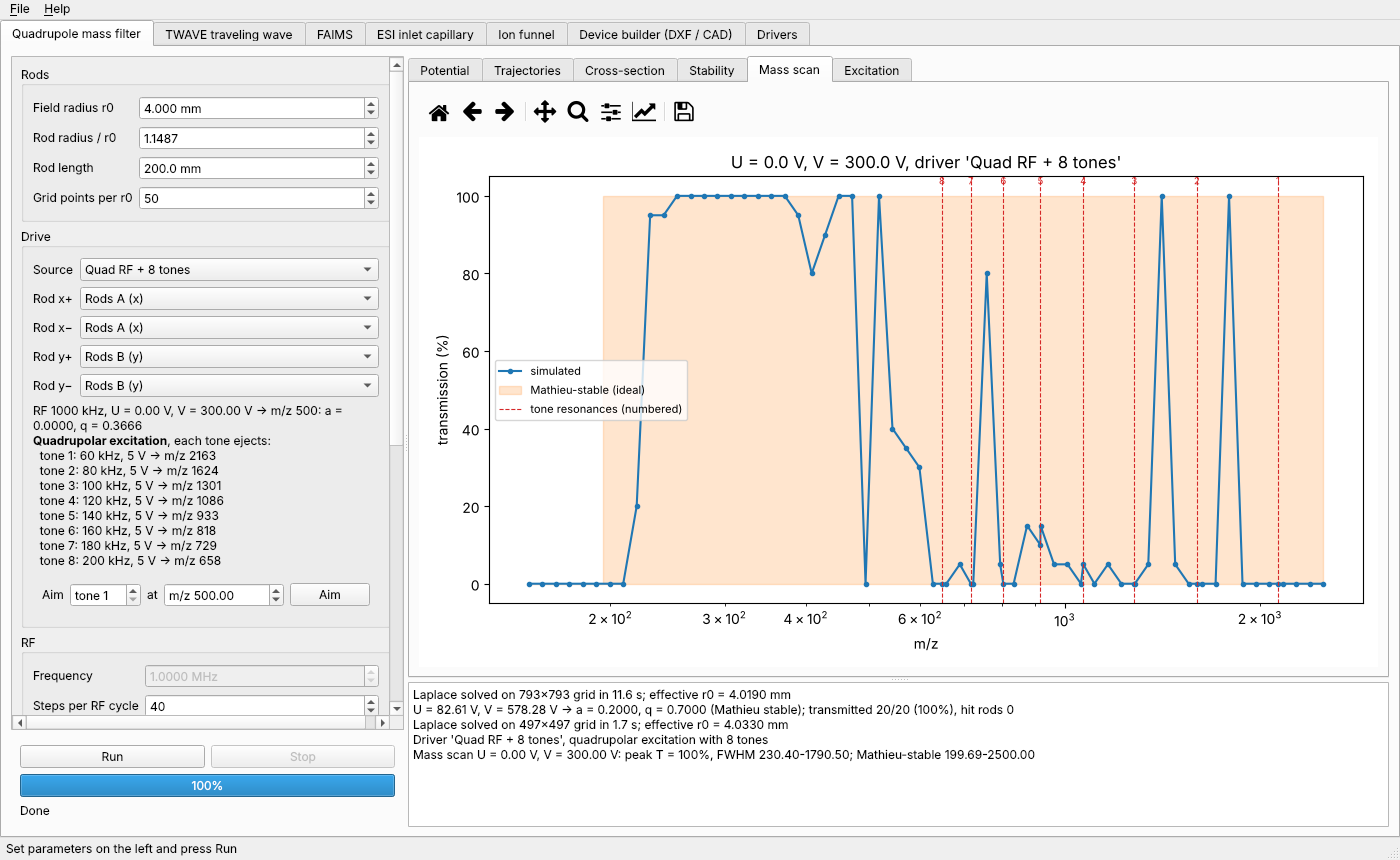
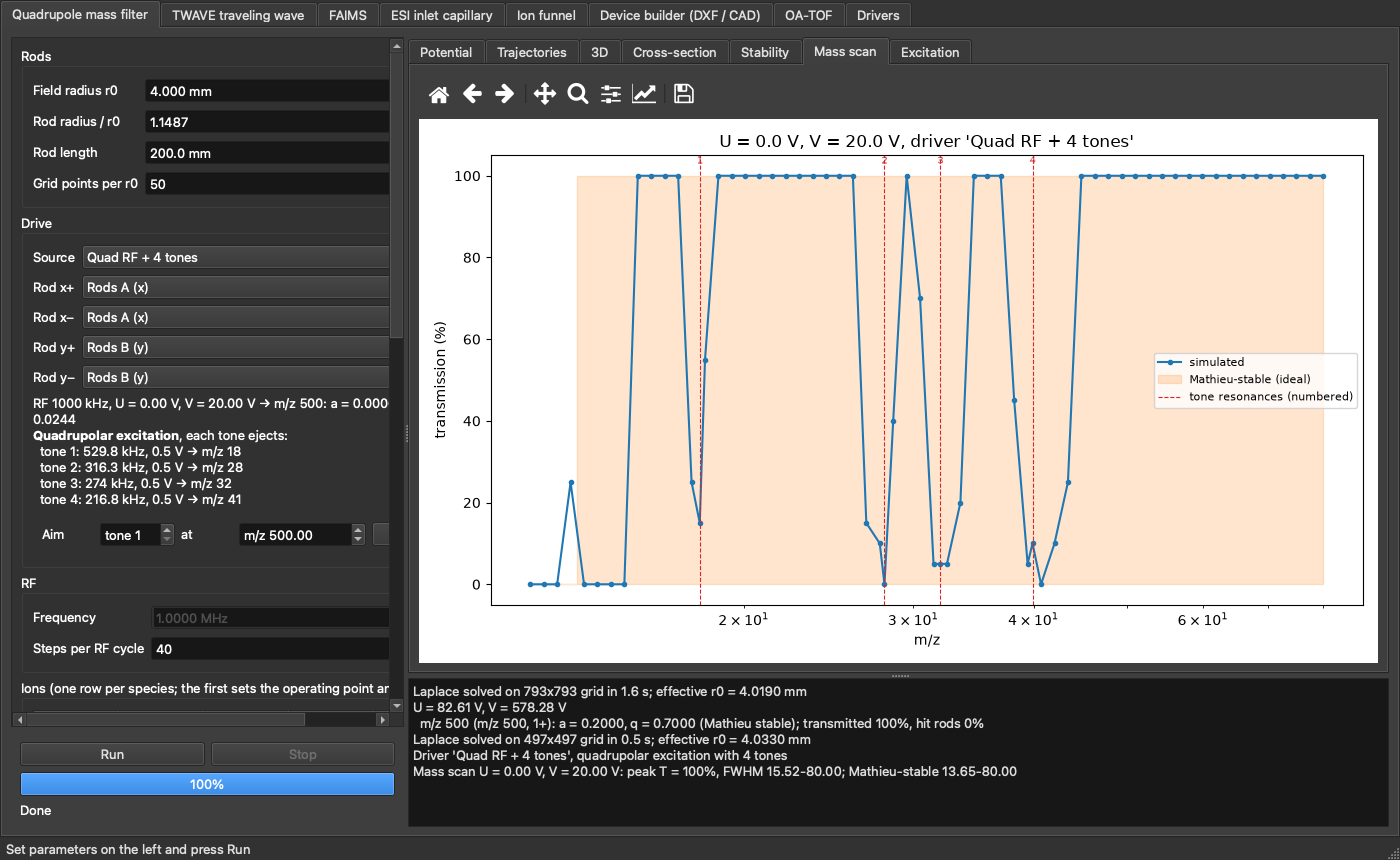
Aim the example quad tone driver at light gas ions with 4 tones
The quad excitation template now carries 4 tones instead of 8, aimed at
H2O+, N2+, O2+ and Ar+ (m/z 18, 28, 32, 40). The RF drops to 20 V at
1 MHz so those masses are stable on 4 mm rods; quadrupolar tones at
0.5 V, dipolar at 0.2 V.

- Example drivers: quad_rf_8_tones.iondrv renamed to quad_rf_4_tones.iondrv,
  dipolar example updated to match.
- Screenshot demo: excitation scan over m/z 12-80 with a 1 eV beam;
  regenerated quad_excitation_scan and quad_excitation_tones.
- Smoke test: tone ejection checked at m/z 28 on the driver's own RF.
- README wording updated.

diff --git a/ionsim/drivers.py b/ionsim/drivers.py
@@ -20,7 +20,7 @@ waveform kept with the driver (waveforms.Trace): a SPICE simulation of the real 
 scope capture of the real board, interpolated between samples and repeated with its period.
 
 Because fields add linearly, a device is solved once per distinct component (DC, cos and
-sin of each frequency, each TWAVE phase), not once per output, so 8 tones on a quad or
+sin of each frequency, each TWAVE phase), not once per output, so tones on a quad or
 16 outputs on a TWAVE/RF combiner stay cheap (see components()).
 """
 import json
@@ -274,19 +274,23 @@ def twave_rf_combiner(name="TWAVE/RF combiner"):
                   notes="TWAVE phases 1-8 superimposed on RF+ and RF- (16 outputs).")
 
 
-def quad_excitation(name="Quad RF + 8 tones", dipolar=False):
-    """Quadrupole RF/DC with 8 excitation tones superimposed. Quadrupolar: tones follow the
-    RF (+ on rods A, - on rods B). Dipolar: tones across the x rod pair only."""
-    amp = 1.0 if dipolar else 5.0       # quadrupolar (parametric) excitation needs ~1-2% of the RF
-    tones = [Tone(freq=f, amp=amp) for f in (60e3, 80e3, 100e3, 120e3, 140e3, 160e3, 180e3, 200e3)]
+def quad_excitation(name="Quad RF + 4 tones", dipolar=False):
+    """Quadrupole RF/DC with 4 excitation tones superimposed, aimed at light gas ions (H2O+, N2+,
+    O2+, Ar+ at m/z 18, 28, 32, 40) with 20 V RF at 1 MHz on 4 mm rods. Quadrupolar: tones follow
+    the RF (+ on rods A, - on rods B) at twice the secular frequency. Dipolar: tones across the
+    x rod pair only, at the secular frequency."""
+    freqs = (529.8e3, 316.3e3, 274.0e3, 216.8e3)
     if dipolar:
-        outs = [Output("Rod x+", rf=300.0, tone_sign=1.0), Output("Rod x-", rf=300.0, tone_sign=-1.0),
-                Output("Rods y", rf=300.0, rf_phase=180.0)]
+        tones = [Tone(freq=f / 2, amp=0.2) for f in freqs]
+        outs = [Output("Rod x+", rf=20.0, tone_sign=1.0), Output("Rod x-", rf=20.0, tone_sign=-1.0),
+                Output("Rods y", rf=20.0, rf_phase=180.0)]
         note = "Dipolar excitation: tones on the x rods in antiphase, RF on all rods."
     else:
-        outs = [Output("Rods A (x)", rf=300.0, tone_sign=1.0),
-                Output("Rods B (y)", rf=300.0, rf_phase=180.0, tone_sign=-1.0)]
+        tones = [Tone(freq=f, amp=0.5) for f in freqs]       # quadrupolar (parametric) excitation needs ~2-3% of the RF
+        outs = [Output("Rods A (x)", rf=20.0, tone_sign=1.0),
+                Output("Rods B (y)", rf=20.0, rf_phase=180.0, tone_sign=-1.0)]
         note = "Tones superimposed on the RF: + with RF+ on rods A, - with RF- on rods B."
+    note += " Tones aimed at m/z 18, 28, 32, 40 (H2O+, N2+, O2+, Ar+)."
     return Driver(name, rf_freq=1.0e6, outputs=outs, tones=tones, notes=note)
 
 
@@ -308,8 +312,8 @@ def tof_pulser(name="OA-TOF pusher-puller"):
 
 TEMPLATES = {
     "TWAVE/RF combiner (16 outputs)": twave_rf_combiner,
-    "Quad RF + 8 tones (on the RF)": quad_excitation,
-    "Quad RF + 8 tones (dipolar, x rods)": lambda name="Quad dipolar": quad_excitation(name, dipolar=True),
+    "Quad RF + 4 tones (on the RF)": quad_excitation,
+    "Quad RF + 4 tones (dipolar, x rods)": lambda name="Quad dipolar": quad_excitation(name, dipolar=True),
     "RF pair (RF+ / RF-)": rf_pair,
     "OA-TOF pusher and puller": tof_pulser,
     "DC supply (8 channels)": dc_supply,

diff --git a/tests/smoke_test.py b/tests/smoke_test.py
@@ -121,13 +121,13 @@ check("driver wiring", not missing and sum(p.startswith("tw@") for p in parts) =
 from ionsim import quadrupole_rods, solve_basis, GridField2D, make_beam, Simulation
 g = quadrupole_rods(4e-3, dx=4e-3 / 40, split=True); basis = solve_basis(g)
 qd = quad_excitation()
-fx, _ = mathieu.secular_freqs(0, 300, 500, 4.03e-3, 1e6)
+fx, _ = mathieu.secular_freqs(0, qd.output("Rods A (x)").rf, 28, 4.03e-3, 1e6)
 T = []
-for amp in (0.0, 15.0):
+for amp in (0.0, 1.0):
     qd.tones = [Tone(2 * fx, amp)] if amp else []
     volts = {r: (lambda tt, o=o: float(qd.waveform(o, tt))) for r, o in
              (("x+", "Rods A (x)"), ("x-", "Rods A (x)"), ("y+", "Rods B (y)"), ("y-", "Rods B (y)"))}
-    ions = make_beam(20, 500, 1, 5.0, 0.3e-3, 1.0, birth_window=1e-6, rng=np.random.default_rng(0))
+    ions = make_beam(20, 28, 1, 1.0, 0.3e-3, 1.0, birth_window=1e-6, rng=np.random.default_rng(0))
     T.append(Simulation([GridField2D(g, basis, volts)], z_end=0.2).run(ions, 1 / 30e6, 3e-4).transmission)
 check("quad tone ejects its m/z", T[0] > 0.9 and T[1] < 0.2, f"no tone {T[0]:.0%}, tone at 2 f_sec {T[1]:.0%}")
 

diff --git a/docs/make_screenshots.py b/docs/make_screenshots.py
@@ -42,16 +42,16 @@ def go():
     shot(w.quad, "Trajectories", "quad_trajectories")
     shot(w.quad, "Stability", "quad_stability")
     shot(w.quad, "3D", "quad_3d")
-    # quadrupole driven by the 8-tone driver: excitation scan
+    # quadrupole driven by the 4-tone driver: excitation scan over light gas ions (1 eV beam)
     q = w.quad
-    q.geom.set("div", 50)
-    q.drive.setCurrentText("Quad RF + 8 tones"); settle()
+    q.geom.set("div", 50); q.ion.set("energy", 1.0)
+    q.drive.setCurrentText("Quad RF + 4 tones"); settle()
     q.mode.setCurrentIndex(1)
-    q.dscan.set("m1", 150); q.dscan.set("m2", 2500); q.dscan.set("npts", 60); q.dscan.set("per", 20)
+    q.dscan.set("m1", 12); q.dscan.set("m2", 80); q.dscan.set("npts", 60); q.dscan.set("per", 20)
     run(q)
     shot(q, "Mass scan", "quad_excitation_scan")
     shot(q, "Excitation", "quad_excitation_tones")
-    q.drive.setCurrentIndex(0); q.geom.set("div", 80)
+    q.drive.setCurrentIndex(0); q.geom.set("div", 80); q.ion.set("energy", 5.0)
     # Drivers tab: the TWAVE/RF combiner
     dr = w.drivers
     w.tabs.setCurrentWidget(dr)

diff --git a/README.md b/README.md
@@ -113,9 +113,9 @@ Rod geometry, RF frequency, ions, beam and operating point (a, q or U, V, kept i
 |---|
 | ![Collision cell](docs/screenshots/quad_collision_cell.png) |
 
-Under **Drive**, pick a driver from the Drivers tab instead of the built-in RF/DC, and choose which output goes on each rod (x+, x−, y+, y−). The tab then works out the excitation type from the tone signs on the rods: tones added with the RF (+ on one pair, − on the other) are quadrupolar and eject at twice the secular frequency; tones across one rod pair are dipolar and eject at the secular frequency. It lists the m/z each tone hits, and **Aim tone k at m/z** sets a tone's frequency for you. **Transmission vs m/z (excitation scan)** flies a log-spaced m/z range (plus every predicted notch) and plots the notches with the tone resonances marked (with 8 tones close together, their notches and weaker side resonances overlap into a broad rejection band, as in the example); the **Excitation** plot shows the secular frequencies against m/z with the tones drawn across them, so crossings are the ejected masses.
+Under **Drive**, pick a driver from the Drivers tab instead of the built-in RF/DC, and choose which output goes on each rod (x+, x−, y+, y−). The tab then works out the excitation type from the tone signs on the rods: tones added with the RF (+ on one pair, − on the other) are quadrupolar and eject at twice the secular frequency; tones across one rod pair are dipolar and eject at the secular frequency. It lists the m/z each tone hits, and **Aim tone k at m/z** sets a tone's frequency for you. **Transmission vs m/z (excitation scan)** flies a log-spaced m/z range (plus every predicted notch) and plots the notches with the tone resonances marked (the example aims 4 tones at light gas ions, H₂O⁺, N₂⁺, O₂⁺ and Ar⁺ at m/z 18, 28, 32 and 40, with 20 V RF at 1 MHz and a 1 eV beam, so each one is notched out while the masses between them pass); the **Excitation** plot shows the secular frequencies against m/z with the tones drawn across them, so crossings are the ejected masses.
 
-| Excitation scan with 8 tones on the RF | Tones against the secular frequencies |
+| Excitation scan with 4 tones on the RF | Tones against the secular frequencies |
 |---|---|
 | ![Quad excitation scan](docs/screenshots/quad_excitation_scan.png) | ![Quad excitation tones](docs/screenshots/quad_excitation_tones.png) |
 
@@ -231,7 +231,7 @@ The beam arrives along z through the pusher. A pulse on the pusher plate (and th
 
 ### Drivers
 
-The electronics, defined once and used everywhere. Start from a template (**TWAVE/RF combiner (16 outputs)**, **Quad RF + 8 tones** on the RF or dipolar on the x rods, **OA-TOF pusher and puller**, **RF pair**, **DC supply**, or empty), then edit:
+The electronics, defined once and used everywhere. Start from a template (**TWAVE/RF combiner (16 outputs)**, **Quad RF + 4 tones** on the RF or dipolar on the x rods, **OA-TOF pusher and puller**, **RF pair**, **DC supply**, or empty), then edit:
 
 * **RF, TWAVE and pulse timing:** RF frequency; number of TWAVE phases, how many are high at once, amplitude, speed at a reference pitch (the step time is pitch / speed) and the edge rise time; pulse rate, delay, width, rise and fall (10–90 %) and edge shape (linear or RC).
 * **Outputs:** name, DC, RF amplitude and phase (0 = RF+, 180 = RF−), which TWAVE phase it carries (blank for none), **Tones ×**: +1, −1 or 0, how the excitation tones are added to that output, and **Pulse**: the volts added while the pulse is high.
@@ -413,7 +413,7 @@ Everything is 1D along the axis, from the emitter to the skimmer.
 
 * **Waveform:** each output is V(t) = DC + RF cos(2πf t + φ) + (Tones ×) Σ A_k cos(2πf_k t + φ_k) + A_TW · gate_p(t) + A_pulse · pulse(t). Phase p's gate is high while ((p − step) mod N) < n_on, the step advances every pitch / speed, and each edge ramps linearly over the rise time.
 * **Imported waveforms (`ionsim/waveforms.py`, `ionsim/scope.py`):** a waveform is a sampled record v(t), linearly interpolated and repeated with its period. It adds Waveform × v(t) to its output and one field part per output that carries it, whose weight at time t is v(t). SPICE raw files are read directly (header, then float64 rows for ngspice, float64 time and float32 values for LTspice, absolute value of LTspice's negative compressed times, stepped runs split where time restarts). Rigol captures use `:WAV:PRE?` and `:WAV:DATA?`: volts = (code − y-origin − y-reference) · y-increment, t = (i − x-reference) · x-increment + x-origin.
-* **Field parts:** a device is solved once per distinct component: DC, cos and sin of each frequency in use, and each TWAVE phase of each driver. Outputs that share a component share its solve, so 16 outputs or 8 tones stay cheap. Electrodes not wired to a driver use the device's own RF and TWAVE settings as before.
+* **Field parts:** a device is solved once per distinct component: DC, cos and sin of each frequency in use, and each TWAVE phase of each driver. Outputs that share a component share its solve, so 16 outputs or several tones stay cheap. Electrodes not wired to a driver use the device's own RF and TWAVE settings as before.
 * **Quadrupole:** the rods are four separate electrodes, each driven by its output's waveform. For a/q the tab uses U = (DC_x − DC_y)/2 and V = |RF_x − RF_y|/2 (phasors, averaged over each rod pair). Secular frequencies come from the Floquet characteristic exponent β, f = β f_RF / 2, in x from (a, q) and in y from (−a, −q).
 
 ### Ion heating (`ionsim/heating.py`)
